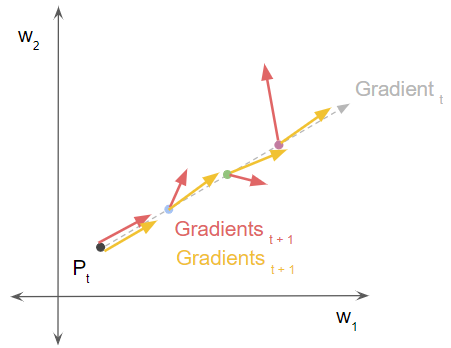
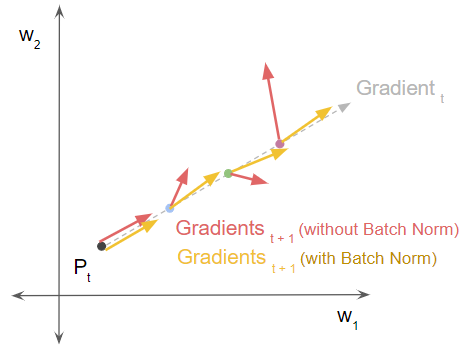
Trans Why first draft

diff --git a/_posts/2021-06-02-Transformers-Why.md b/_posts/2021-06-02-Transformers-Why.md
@@ -1,0 +1,194 @@
+---
+layout: post
+title: Transformers Explained Visually -. Why they work so well.
+subtitle: A Gentle Guide to why they way it computes Attention Boosts Performance, in Plain English.
+imagecaption: Photo by [Joshua Sortino](https://unsplash.com/@sortino) on [Unsplash](https://unsplash.com)
+categories: [ Transformers, tutorial ]
+author: ketan
+tags: featured
+image: https://images.unsplash.com/photo-1488229297570-58520851e868?w=1200
+---
+
+This is the fourth article in my series on Transformers. In the previous articles, we learned about what Transformers do and their architecture. We also went through how they work under the hood in detail.
+
+We know that the Transformer's Attention module gives it its power, and that this happens because it captures the relationships between each word in a sequence with every other word. 
+
+But the key question is _how_ is it able to do that?
+
+In this article, we will attempt to answer that question, and understand _why_ it performs the calculations that it does.
+
+Here’s a quick summary of the previous and following articles in the series.
+
+1. [**Overview of functionality**](https://ketanhdoshi.github.io/Transformers-Overview/) (_How Transformers are used, and why they are better than RNNs. Components of the architecture, and behavior during Training and Inference_)
+2. [**How it works**](https://ketanhdoshi.github.io/Transformers-Arch/) (_Internal operation end-to-end. How data flows and what computations are performed, including matrix representations_)
+3. [**Multi-head Attention**](https://ketanhdoshi.github.io/Transformers-Attention/) (_Inner workings of the Attention module throughout the Transformer_)
+4. Why Attention Boosts Performance — this article (_Not just what Attention does but why it works so well. How does Attention capture the relationships between words in a sentence_)
+
+## How does the Attention module get its input
+
+![]({{ site.baseurl }}/assets/images/TransformerArch/Attention-2.png)
+*(Image by Author)*
+
+The way we will understand what is going on with Attention, is by starting with the individual words in the input sequence, and then following their path as they make their way through the Transformer. In particular we want to focus on what goes on inside the Attention Module.
+
+![]({{ site.baseurl }}/assets/images/TransformerWhy/Data-1.png)
+*(Image by Author)*
+
+That will help us clearly see how each word in the input and target sequences interacts with other words in the input and target sequences.
+
+So as we go through this explanation, concentrate on what operations are being performed on each word, and how each vector maps to the original input word. We do not need to worry about many of the other details such as matrix shapes, specifics of the arithmetic calculations and matrix operations and so on, if they are not directly relevant to where each word is going.
+
+Input -> Embedding + Position -> Query, Key and Value -> Attention module
+
+Each word in the input sequence is represented by an embedding vector.
+
+![]({{ site.baseurl }}/assets/images/TransformerWhy/Data-2.png)
+*(Image by Author)*
+
+This input is then passed through three Linear layers which produce three separate vectors - known as the Query, Key and Value. These are the three parameters that are input to the Attention Module.
+
+The important thing to keep in mind is that each 'row' of these vectors corresponds to one word in the input sequence. 
+
+Each such row has been generated from its corresponding input word by a series of transformations - embedding, position encoding, linear weights. 
+
+All of those transformations are trainable operations. This means that the weights used in those operations are not pre-decided but are learned by the model in such a way that they produce the desired output predictions. 
+
+The key question is, how does the Transformer figure out what set of weights will give it the best results? Keep this point in the back of your mind as we will come back to it a little later.
+
+![]({{ site.baseurl }}/assets/images/TransformerWhy/Data-3.png)
+*(Image by Author)*
+
+## Calculations performed by Attention Module
+
+The first step within Attention is to do a matrix multiply between the Q matrix and a transpose of the K matrix. Watch what happens to each word.
+
+We produce an intermediate matrix (let's call it a 'factor' matrix) where each cell is a matrix multiplication between two words. Each column in the the first row corresponds to a matrix multipy between the first Query word with every Key word.
+
+![]({{ site.baseurl }}/assets/images/TransformerWhy/Attn-1.png)
+*(Image by Author)*
+
+![]({{ site.baseurl }}/assets/images/TransformerWhy/Attn-2.png)
+*(Image by Author)*
+
+The next step is a matrix multiply between this intermediate 'factor' matrix and the K matrix, to produce the attention score that is output by the attention module. Here we can see that the first row corresponds to the first Query word matrix-multiplied with all other K and V words.
+
+![]({{ site.baseurl }}/assets/images/TransformerWhy/Attn-4.png)
+*(Image by Author)*
+
+?? So the way to think about the output score is that, for each word, it is the encoded value of every word from the "Value" matrix, weighted by the matrix multiply of the Query value for that specific word with the Key value of all words.??
+
+
+
+So the word in the Query is the word for which we are calculating Attention. The word in the Key/Value is the word TO WHICH we are paying attention ie. how relevant is that word to the Query word.
+
+?? For example, for the sentence, "The black cat drank the milk", the row for the word "milk" will contain the attention scores for "milk" with every other word. Here, "milk" is the Query word, and the other words are the "Key/Value". ??
+
+![]({{ site.baseurl }}/assets/images/TransformerWhy/Attn-5.png)
+*Show a matrix with rows paying attention and columns being attention paid to(Image by Author)*
+
+There are other operations being performed such as a division and a softmax, but they just change the values in the matrices but don't affect the mapping of each word to rows in the matrix. Nor do they involve any inter-word interactions.
+
+So we have seen that the attention score is capturing the interaction between a particular word, and every other word in the sentence, and then combining them up. But how does that interaction capture the relevance of one word to another?
+
+## What is the significance of the matrix multiply
+The attention score figures out the interaction between words in the sequence by doing a matrix multiply. How does the matrix multiply help the Transformer determine the relevance between two words?
+
+![]({{ site.baseurl }}/assets/images/TransformerWhy/Attn-3.png)
+*Two vectors doing a matrix multiply ie. a multiply between corresponding elements and a sum (Image by Author)*
+
+Consider a matrix multiplication between two vectors. We multiply pairs of numbers and then add them up. 
+- If the two numbers are both positive or both negative, then the product will be positive. The product will increase to the final summation.
+- If one number is positive and other negative, then the product will be negative. The product will reduce the final summation.
+- If the product is positive, the larger the two numbers, the more they contribute to the final summation.
+
+![]({{ site.baseurl }}/assets/images/TransformerWhy/xxx-7.png)
+*Two vectors doing a matrix multiply ie. a multiply between corresponding elements and a sum (Image by Author)*
+
+This means that if the signs of the corresponding numbers in the two vectors match, the final sum will be larger.
+
+## Matrix multiply for Attention (Version 2)
+In the case of Attention Score, the matrix dot product will produce a higher attention score for two words if the word vectors for those two words are aligned.
+
+So what is the behavior we want?
+
+We want the attention score to be high for two words that are relevant to each other in the sentence. And the score to be low for two words which are unrelated to one another.
+
+For example, for the sentence, "The black cat drank the milk", the word "milk" is very relevant to "drank", perhaps slightly less relevant to "cat" and irrelevant to "black".
+We want "milk" and "drank" to produce a high attention score. for "milk" and "cat" to produce a slightly lower score and for "milk" and "black", to produce a negligible score.
+
+This is the output we want the model to learn to produce.
+
+For this to happen, the word vectors for "milk" and "drank" must be aligned. The vectors for "milk" and "black" will diverge somewhat. And they will be quite different for "milk" and "black".
+
+The word vectors are generated based on the word embeddings and the weights of the Linear layers. Therefore the Transformer can learn those embeddings, Linear weights and so on to produce the word vectors as required above.
+
+In other words, it will learn those embeddings etc in such a way that if two words in a sentence are relevant to each other, then their word vectors will be aligned. And hence produce a higher attention score. For words that are not relevant to each other, the word vectors will not be aligned and will produce a lower attention score.
+
+Therefore the embeddings for "milk" and "drank" will be very aligned and produce a high attention score. They will diverge somewhat for "milk" and "cat" to produce a slightly lower score and will be quite different for "milk" and "black", to produce a negligible score.
+
+## Matrix Factorization in Recommender Systems
+Recommendation Systems make use of this idea using a technique known as Matrix Factorization. To gain some intuition about why this is significant, let's look at an example.
+
+Recommendation Systems recommend a product item to a user. They use a product item vector that represents the features of each product, and a user vector that represents the preferences of each user. For instance, if this is for a book, the product features might be about the genre of the book eg. one feature could indicate whether it is a mystery, another could indicate whether it is humorous. Similarly, the user vector contains features for the mystery and humor genre preferences of the user.
+
+Now we do a matrix multiply between a user vector and a product vector to figure out a recommendation score for whether the user would like that product. If the product's mystery feature and the user's mystery preference are both positive (ie. user likes mysteries and the book is a mystery), or both negative (ie. user doesn't like mysteries and the book is not a mystery), then the matrix dot product will be high, and the product should be recommended. 
+
+Conversely, if one is positive and other negative....
+
+Similarly, the higher the value of the book's mystery feature (ie. it has a high mystery content) and the higher the value of the user's mystery preference (the user really loves mysteries), the higher the recommendation score.
+
+![]({{ site.baseurl }}/assets/images/TransformerWhy/xxx-8.png)
+*Matrix Factorization (Image by Author)*
+
+How does the system decide what this set of features should be? And what are their values for each user and each product eg. "How humorous is this particular book"?
+
+These things are not pre-decided and fed in as input to the system. Rather, we feed in data about some items that some users liked and didn't like. From that, the system learns what features are important, and what the values for each product and user should be. In such a way, so as to produce high recommendation score results for the items that those users liked, and low scores for the items that they didn't like.
+
+## Matrix multiply for Attention (Version 1)
+This idea applies to the Attention score as well. If the vectors for two words are more aligned, the attention score will be higher.
+
+The word vectors are generated based on the word embeddings and the weights of the Linear layers. Therefore the Transformer can learn those embeddings, Linear weights and so on, in such a way that if two words in a sentence are relevant to each other, then their word vectors will be aligned. And hence produce a higher attention score. For words that are not relevant to each other, the word vectors will not be aligned and will produce a lower attention score.
+
+This is one reason for introducing the three Linear layers and making three versions of the input sequence, for the Query, Key and Value. That gives the Attention Module some more parameters that it is able to learn to tune the creation of the word vectors.
+
+The embeddings encode the "features" of each word eg. "bat" and "ball" will be very related to one another, so a feature could whether the word is a sports object. In reality, these features are really just a set of numbers and may not translate easily to a human understandable feature.
+
+For example, for the sentence, "The black cat drank the milk", the word "milk" is very relevant to "drank", perhaps slightly less relevant to "cat" and irrelevant to "black". Therefore the embeddings for "milk" and "drank" will be very aligned and produce a high attention score. They will diverge somewhat for "milk" and "cat" to produce a slightly lower score and will be quite different for "milk" and "black", to produce a negligible score.
+
+## How does Transformer get the correct values of Attention
+This then is the principle behind the attention module. The dot product between the Query and Key computes the relevance between each pair of words. This relevance is then used as a "weight" to compute a weighted sum of all the words. That weighted sum is output as the Attention Score.
+
+The Transformer learns embeddings etc, in such a way that words that are relevant to one another are more aligned.
+
+## Where Attention is used in the Transformer
+
+![]({{ site.baseurl }}/assets/images/TransformerAttn/Attn-1.png)
+*(Image by Author)*
+
+Encoder Self Attention etc
+
+In the Encoder Self Attention and Decoder Self Attention, we compute the relevance of each word in the input sentence to each other word in the input sentence. and similarly for each word in the target sentence in the Decoder Self Attention.
+
+![]({{ site.baseurl }}/assets/images/TransformerArch/Attention-3.png)
+*(Image by Author)*
+
+![]({{ site.baseurl }}/assets/images/TransformerWhy/Decoder-1.png)
+*Decoder Self Attention (Image by Author)*
+
+In the Encoder-Decoder Attention, the Query is obtained from the target sentence, and the Key/Value from the source sentence. Thus it computes the relevance of each word in the target sentence to each word in the source sentence.
+
+![]({{ site.baseurl }}/assets/images/TransformerWhy/Decoder-2.png)
+*Encoder Decoder Attention (Image by Author)*
+
+## Conclusion
+Hopefully, this gives you a feel for what goes on inside the Transformer during Training. As we discussed in the previous article, it runs in a loop during Inference but most of the processing remains the same.
+
+The Multi-head Attention module is what gives the Transformer its power. In the next article, we will continue our journey and go one step deeper to really understand the details of how Attention is computed.
+
+And finally, if you are interested in NLP, you might also enjoy my article on Beam Search, and my other series on Audio Deep Learning and Reinforcement Learning.
+
+[State-of-the-Art Techniques](https://ketanhdoshi.github.io/Audio-Intro/)
+
+[Reinforcement Learning Made Simple (Part 1): Intro to Basic Concepts and Terminology](https://ketanhdoshi.github.io/Reinforcement-Learning-Intro/)
+
+Let's keep learning!

diff --git a/_posts/2021-05-27-Batch-Norm-Why.md b/_posts/2021-05-27-Batch-Norm-Why.md
@@ -1,7 +1,7 @@
 ---
 layout: post
-title: Batch Norm Explained Visually — Why does it work so well? it speeds up training
-subtitle: A Gentle Guide to why Batch Norm works and the reasons for training converging faster, in Plain English
+title: Batch Norm Explained Visually - Why does it work
+subtitle: A Gentle Guide to the reasons for the Batch Norm layer's success in making training converge faster, in Plain English
 imagecaption: Photo by [](https://unsplash.com/@hirmin) on [Unsplash](https://unsplash.com) 
 categories: [ Neural, tutorial ]
 author: ketan
@@ -13,7 +13,7 @@ The Batch Norm layer is frequently used in deep learning models in association w
 
 In this article, we will explore _why_ Batch Norm works and why it requires fewer training epochs when training a model.
 
-You might also enjoy reading my other article which explains, in simple language, what Batch Norm is and walks through, step by step, how it operates under the hood.
+You might also enjoy reading my other article on Batch Norm which explains, in simple language, what Batch Norm is and walks through, step by step, how it operates under the hood.
 
 ## Why does Batch Norm work?
 There is no dispute that Batch Norm works wonderfully well and provides substantial measurable benefits to deep learning architecture design and training. However, curiously, there is still no universally agreed answer about what gives it its amazing powers.
@@ -30,7 +30,7 @@ Let's say that we want to train a model and the ideal target output function (al
 ![]({{ site.baseurl }}/assets/images/BatchNorm/ICS-1.png)
 *Target function (Image by Author)*
 
-Somehow, let's say that the training data values that we input to the model cover only a part of the range of output values. The model is therefore able to learn only a subset of the target function. 
+Somehow, let's say that the training data values that we input to the model cover only a part of the range of output values. The model is, therefore, able to learn only a subset of the target function. 
 
 ![]({{ site.baseurl }}/assets/images/BatchNorm/ICS-2.png)
 *Training data distribution (Image by Author)*
@@ -65,7 +65,7 @@ That is also the input for layer 'k'. In other words, that layer receives input 
 Therefore the proposed hypothesis was that Batch Norm helps to stabilize these shifting distributions from one iteration to the next, and thus speeds up training. 
 
 ## Theory 2 - Loss and Gradient Smoothening
-The MIT paper published results that challenge the claim that addressing Covariate Shift is responsbile for Batch Norm's performance, and puts forward a different explanation.
+The MIT paper published results that challenge the claim that addressing Covariate Shift is responsible for Batch Norm's performance, and puts forward a different explanation.
 
 In a typical neural network, the "loss landscape" is not a smooth convex surface. It is very bumpy with sharp cliffs and flat surfaces. This creates a challenge for gradient descent - because it could suddenly encounter an obstacle in what it thought was a promising direction to follow. To compensate for this, the learning rate is kept low so that we take only small steps in any direction.
 
@@ -78,7 +78,7 @@ The paper proposes that what Batch Norm does is to smoothen the loss landscape s
 
 To investigate this theory, the paper conducted an experiment to analyze the loss landscape of a model during training. We'll try and visualize this with a simple example.
 
-Let's say that we have a simple network with two weight parameters (w1 and w2). The values of these weights can be shown on a 2D surface, with one axis for each weight. Each combination of weight values correspond to a point on this 2D plane. 
+Let's say that we have a simple network with two weight parameters (w1 and w2). The values of these weights can be shown on a 2D surface, with one axis for each weight. Each combination of weight values corresponds to a point on this 2D plane. 
 
 As the weights change during training, we move to another point on this surface.  Hence one can plot the trajectory of the weights over the training iterations.
 
@@ -89,22 +89,21 @@ Note that the picture below displays only the weight values at each point. To vi
 
 The goal of the experiment was to examine the loss landscape, by measuring what the Loss and Gradient would look like at different points if we kept moving in the same direction. They measured this with and without Batch Norm, to see what effect Batch Norm had.
 
-let's say that at some iteration 't' during training it is at point Pt. It evaluates the loss and the gradient at Pt. Then, starting from that point, it 
-it takes a single step forward with some learning rate to reach a next point P_t+1. Then it does a rewind back to Pt and repeats the step with a higher learning rate. 
+let's say that at some iteration 't' during training it is at point P(t). It evaluates the loss and the gradient at P(t). Then, starting from that point, it takes a single step forward with some learning rate to reach the next point P(t+1). Then it does a rewind back to Pt and repeats the step with a higher learning rate. 
 
-In other words, it tried three different alternatives by taking three different-sized steps (blue, green and pink arrows) along the gradient direction, using three different learning rates. That brought us to three different next points for P_t+1. Then, at each of those P_t+1 points, it measured the new loss and gradient.
+In other words, it tried three different alternatives by taking three different-sized steps (blue, green, and pink arrows) along the gradient direction, using three different learning rates. That brought us to three different next points for P(t+1). Then, at each of those P(t+1) points, it measured the new loss and gradient.
 
-After this it repeated all three steps for the same network, but with Batch Norm included.
+After this, it repeated all three steps for the same network, but with Batch Norm included.
 
 ![]({{ site.baseurl }}/assets/images/BatchNorm/Smooth-2.png)
 * (Image by Author)*
 
-Now we can plot the loss at each of those P_t+1 points (blue, green and pink) just in that single direction. The bumpy red curve shows the loss without Batch Norm and the smooth declining yellow curve shows the loss with Batch Norm.
+Now we can plot the loss at each of those P(t+1) points (blue, green, and pink) just in that single direction. The bumpy red curve shows the loss without Batch Norm and the smooth declining yellow curve shows the loss with Batch Norm.
 
 ![]({{ site.baseurl }}/assets/images/BatchNorm/Smooth-3.png)
 * (Image by Author)*
 
-Similarly, we can plot the size and direction of the gradient at each of those points. The red arrows shows the gradient fluctuating wildly in size and direction without Batch Norm. The yellow arrows shows the gradient remaining steady in size and direction with Batch Norm.
+Similarly, we can plot the size and direction of the gradient at each of those points. The red arrows show the gradient fluctuating wildly in size and direction without Batch Norm. The yellow arrows show the gradient remaining steady in size and direction with Batch Norm.
 
 ![]({{ site.baseurl }}/assets/images/BatchNorm/Smooth-4.png)
 * (Image by Author)*
@@ -113,7 +112,7 @@ This experiment shows us that Batch Norm significantly smoothens the loss landsc
 
 The ideal scenario is that at the next point P_t+1, the gradient also lies in the same direction. This means that we can continue moving in the same direction. This allows the training to proceed smoothly and quickly find the minimum. 
 
-On the other hand, if the best gradient direction at P_t+1 took us in a different direction, we would end up following a zig-zag route with wasted effort. That would require more training iterations to converge.
+On the other hand, if the best gradient direction at P(t+1) took us in a different direction, we would end up following a zig-zag route with wasted effort. That would require more training iterations to converge.
 
 Although this paper's findings have not been challenged so far, it isn't clear whether they've been fully accepted as conclusive proof to close this debate.
 
@@ -126,14 +125,16 @@ Batch Norm lets you use higher learning rates. Without Batch Norm, learning rate
 
 Batch Norm also reduces the dependence of gradients on the initial weight values. Since weights are initialized randomly, outlier weight values in the early phases of training can distort gradients. Thus it takes longer for the network to converge. Batch Norm helps to dampen the effects of these outliers.
 
-## When is Batch Norm not applicable
+## When is Batch Norm not applicable?
 Batch Norm doesn't work well with smaller batch sizes. That results in too much noise in the mean and variance of each mini-batch. 
 
 Batch Norm is not used with recurrent networks. Activations after each timestep have different distributions, making it impractical to apply Batch Norm to it.
 
 ## Conclusion
-Hopefully, this gives you an understanding of .....
+Even though we aren't sure about the correct explanation, it is fascinating to explore these different theories as it gives us some insight into the inner workings of neural networks.
 
-And finally, if you liked this article, you might also enjoy my other series on Transformers as well as Audio Deep Learning.
+Regardless, Batch Norm is a layer that we should definitely consider when designing our architecture.
+
+And finally, if you liked this article, you might also enjoy my other series on Transformers, Audio Deep Learning, and Geolocation Machine Learning.
 
 Let's keep learning!
